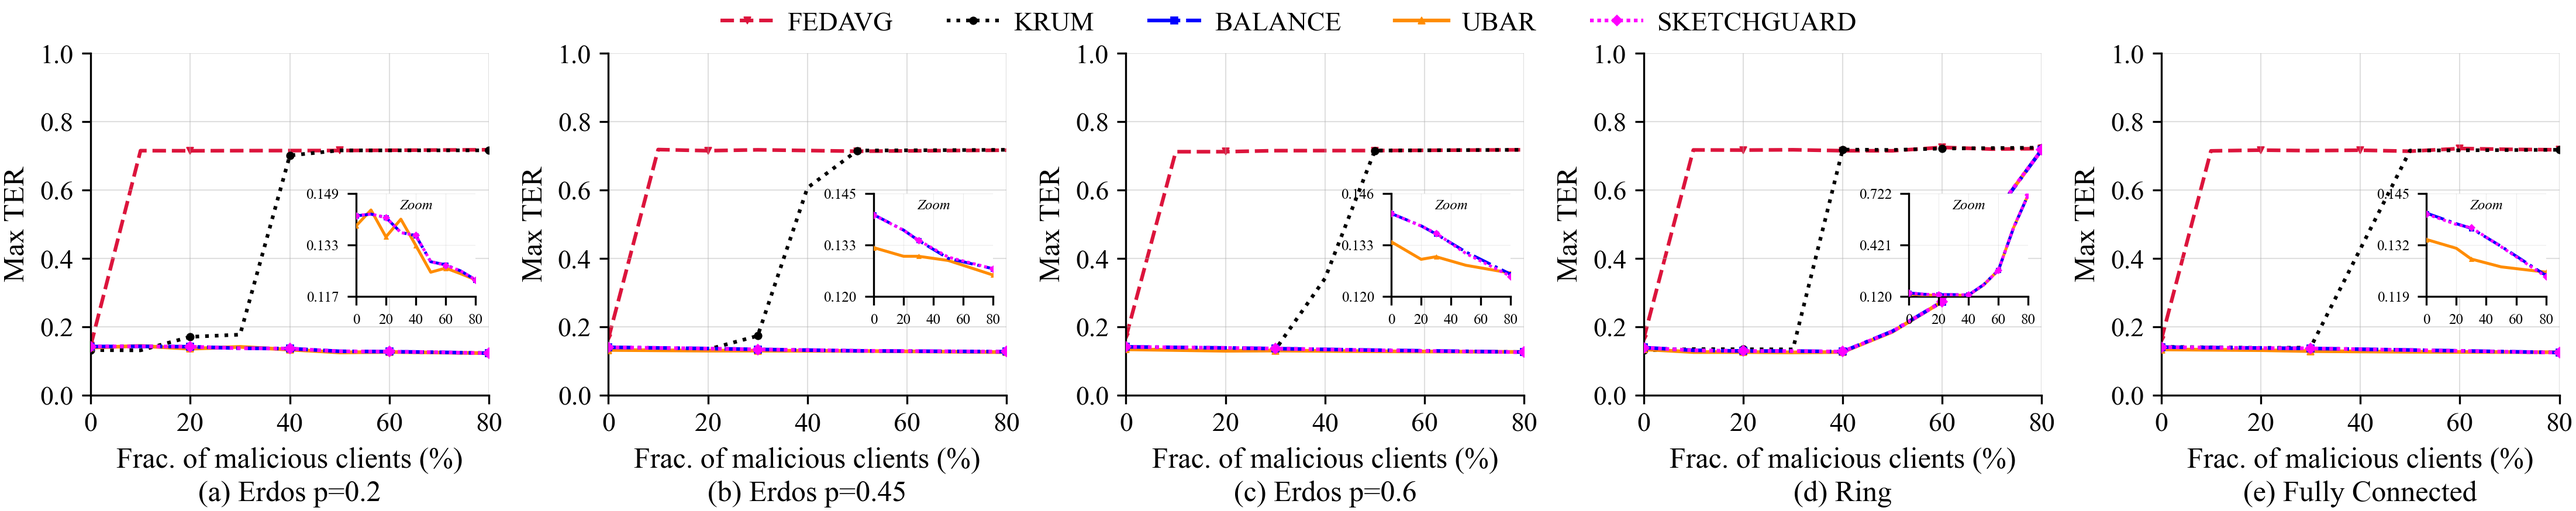
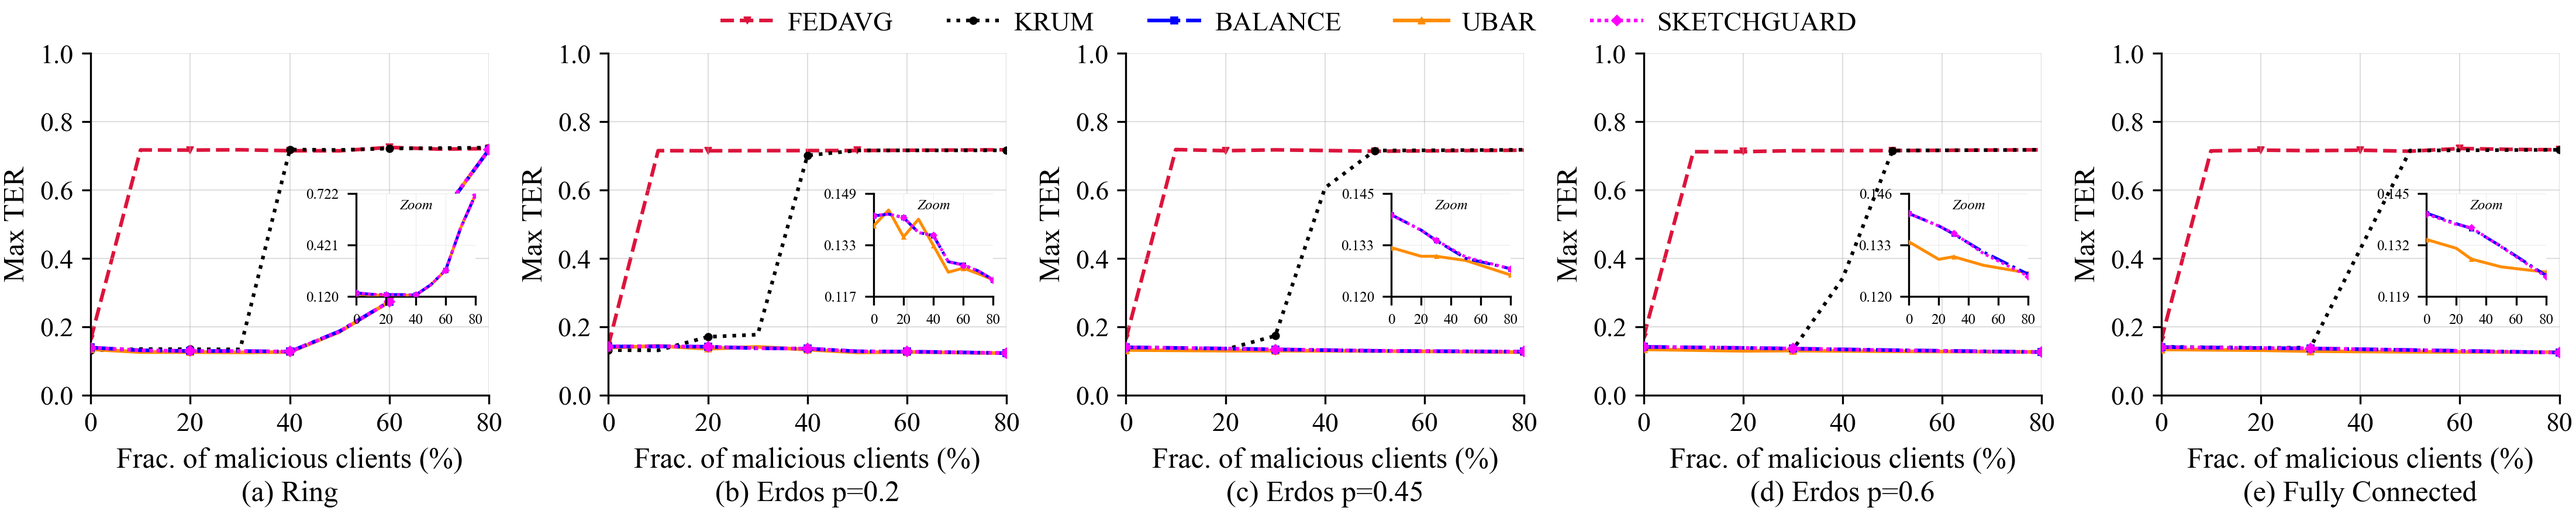
Change ring topology to first in plot.

diff --git a/scripts/visualization/visualize_topology_style.py b/scripts/visualization/visualize_topology_style.py
@@ -31,7 +31,7 @@ def get_output_path(filename):
     script_dir = os.path.dirname(__file__)
     return os.path.join(script_dir, '..', '..', filename)
 
-def load_and_prepare_data(csv_file='extracted_accuracies.csv'):
+def load_and_prepare_data(csv_file='raw_data/extracted_accuracies.csv'):
     """Load CSV and prepare data for visualization."""
     # Get the correct path to data files relative to script location
     script_dir = os.path.dirname(__file__)
@@ -47,10 +47,10 @@ def create_topology_figure(df, save_prefix=''):
 
     # Get all topology combinations
     topology_combinations = [
+        ('ring', 'NA', 'Ring'),
         ('erdos', '02', 'Erdos p=0.2'),
         ('erdos', '045', 'Erdos p=0.45'),
         ('erdos', '06', 'Erdos p=0.6'),
-        ('ring', 'NA', 'Ring'),
         ('fully', 'NA', 'Fully Connected')
     ]
 
@@ -346,7 +346,7 @@ def main():
     print(f"\nGenerating averaged topology comparison figure across all datasets...")
     create_topology_figure(df, save_prefix='averaged_')
 
-    print("\n✅ Averaged topology comparison figure generated!")
+    print("\nAveraged topology comparison figure generated!")
     print("Features:")
     print("  - Single 1x5 subplot layout")
     print("  - Separate panel for each graph topology")

diff --git a/scripts/visualization/visualize_paper_style.py b/scripts/visualization/visualize_paper_style.py
@@ -287,7 +287,7 @@ def main():
     print(f"\nGenerating combined paper-style figure with all datasets...")
     create_combined_figure(df, 'combined_')
 
-    print("✅ Combined paper-style figure generated!")
+    print("Combined paper-style figure generated!")
     print("Features:")
     print("  - Single 1x4 subplot layout")
     print("  - Two FEMNIST panels: (a) Directed Deviation, (b) Gaussian")

diff --git a/scripts/visualization/visualize_scalability.py b/scripts/visualization/visualize_scalability.py
@@ -429,7 +429,7 @@ def main():
     print("\nGenerating combined scalability plot (2x1 layout)...")
     create_combined_scalability_plot(df_network, df_model)
 
-    print("\n✅ Combined scalability plot generated!")
+    print("\nCombined scalability plot generated!")
     print("Features:")
     print("  - 2x1 subplot layout")
     print("  - (a) Network scalability: Compute time vs node degree")
